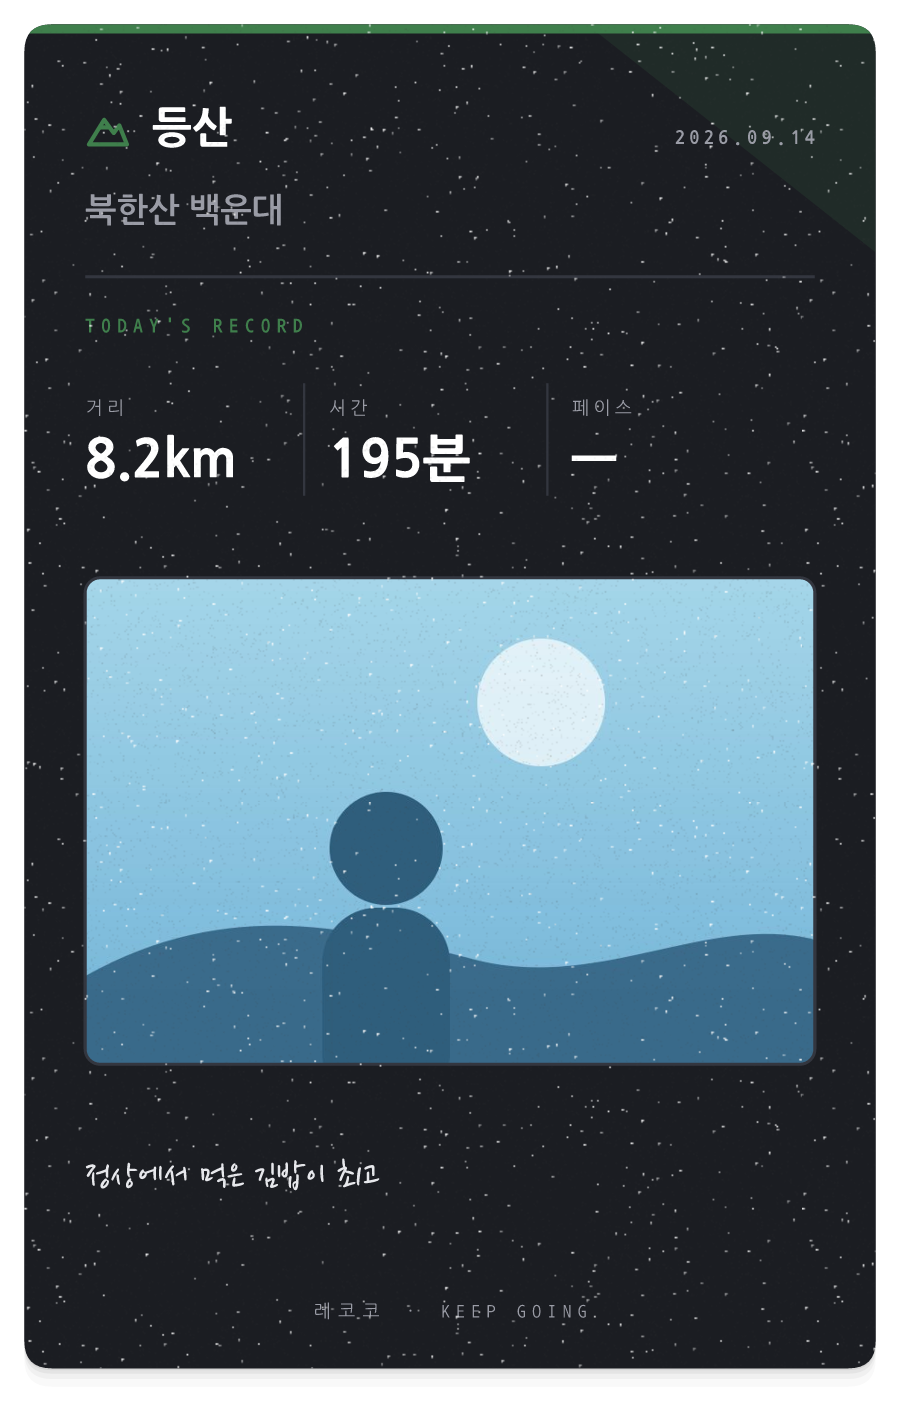
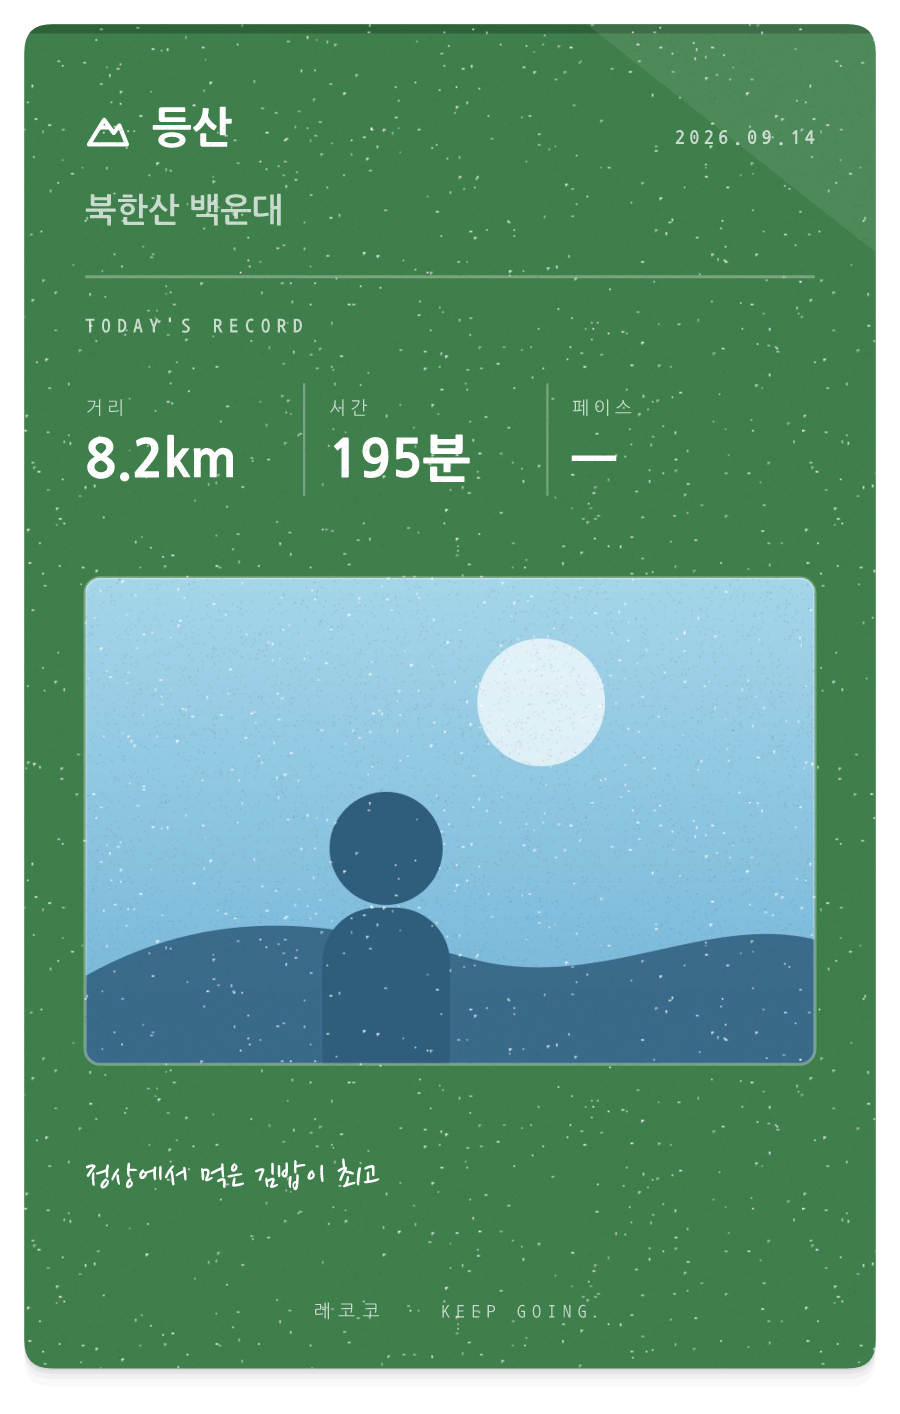
운동 기록 카드를 종류 색 카드로 · 운동 아이콘을 아령으로
- 검정 대신 종류 색(러닝 초록·헬스 주황·요가 보라·등산 진초록·수영 파랑)으로 꽉 채운 카드
- 사진과 종목이 없을 때 생기던 빈 자리 줄임
- 상점 아이콘: 운동화 → 아령, 아령·헤드폰 크기를 다른 아이콘에 맞춤

diff --git a/app/src/templates/ExerciseCard.tsx b/app/src/templates/ExerciseCard.tsx
@@ -1,4 +1,4 @@
-// 운동 (기록 카드): 진한 색 카드에 큰 숫자를 박은 스포츠 기록 카드
+// 운동 (기록 카드): 종류 색으로 꽉 채운 카드에 큰 숫자를 박은 스포츠 기록 카드
 import type { ComponentProps } from 'react';
 import Svg, { ClipPath, Defs, G, Image, Line, Path, Rect, Text } from 'react-native-svg';
 
@@ -12,9 +12,8 @@ import { PaperOverlay, PaperShadow, TemplateLayout } from './shared';
 const PW = 560;
 const PAD = 16;
 const M = 40;
-const DARK = '#1b1d22';
-const DIM = '#9a9ca6';
-const LINE = '#33363f';
+const PALE = 'rgba(255,255,255,0.72)'; // 카드 위 옅은 글씨
+const FAINT = 'rgba(255,255,255,0.3)'; // 칸 나누는 선
 
 const STAT = 96; // 큰 숫자 칸 높이
 const MOVE_ROW = 46;
@@ -34,7 +33,7 @@ function computeLayout(r: ExerciseRecord) {
   const statTop = 238;
   const photoTop = statTop + STAT + 30;
   const moves = r.type === 'gym' ? r.moves.filter((m) => m.name.trim()).slice(0, 8) : [];
-  const movesTop = photoTop + (photoH ? photoH + 30 : 0);
+  const movesTop = photoH ? photoTop + photoH + 30 : statTop + STAT + 26;
   const movesBot = movesTop + (moves.length ? moves.length * MOVE_ROW + 16 : 0);
   const memo = r.memo.trim() ? fitLines(r.memo.trim(), PW - M * 2, 26, 20, 3, 'hand') : null;
   const memoTop = movesBot + 34;
@@ -68,19 +67,19 @@ export function ExerciseCard({ record: r, width, connected = false }: { record: 
             <Rect x={M} y={photoTop} width={PW - M * 2} height={photoH} rx={10} />
           </ClipPath>
         </Defs>
-        <Path d={shape} fill={DARK} />
+        <Path d={shape} fill={t.card} />
 
         {/* 위쪽 색 띠 + 종류 */}
         <G clipPath={`url(#${id}-card)`}>
-          <Rect x={0} y={0} width={PW} height={6} fill={t.accent} />
-          <Path d={`M${PW - 190},0 L${PW},0 L${PW},150 Z`} fill={t.accent} opacity={0.14} />
+          <Rect x={0} y={0} width={PW} height={6} fill={t.deep} />
+          <Path d={`M${PW - 190},0 L${PW},0 L${PW},150 Z`} fill="#fff" opacity={0.08} />
         </G>
-        <ExerciseIcon type={r.type} x={M} y={54} size={30} color={t.accent} />
+        <ExerciseIcon type={r.type} x={M} y={54} size={30} color="#fff" />
         <T f="sansHeavy" x={M + 44} y={78} fontSize={28} children={t.label} />
-        <T f="monoBold" x={PW - M} y={78} fontSize={13} letterSpacing={3} fill={DIM} textAnchor="end" children={dotDateWithDay(r.date).replace(/\(.\)/, '')} />
-        <T f="sansBold" x={M} y={130} fontSize={place.size} fill={DIM} children={place.text} />
-        <Line x1={M} y1={166} x2={PW - M} y2={166} stroke={LINE} strokeWidth={2} />
-        <T f="monoBold" x={M} y={202} fontSize={13} letterSpacing={4} fill={t.accent} children="TODAY'S RECORD" />
+        <T f="monoBold" x={PW - M} y={78} fontSize={13} letterSpacing={3} fill={PALE} textAnchor="end" children={dotDateWithDay(r.date).replace(/\(.\)/, '')} />
+        <T f="sansBold" x={M} y={130} fontSize={place.size} fill={PALE} children={place.text} />
+        <Line x1={M} y1={166} x2={PW - M} y2={166} stroke={FAINT} strokeWidth={2} />
+        <T f="monoBold" x={M} y={202} fontSize={13} letterSpacing={4} fill={PALE} children="TODAY'S RECORD" />
 
         {/* 큰 숫자 세 칸 */}
         {stats.map(([k, v], i) => {
@@ -88,9 +87,9 @@ export function ExerciseCard({ record: r, width, connected = false }: { record: 
           const value = fitLine(v, (PW - M * 2) / 3 - 14, 34, 18, 'sansHeavy');
           return (
             <G key={k}>
-              <T f="mono" x={x} y={statTop + 18} fontSize={12} letterSpacing={2} fill={DIM} children={k} />
+              <T f="mono" x={x} y={statTop + 18} fontSize={12} letterSpacing={2} fill={PALE} children={k} />
               <T f="sansHeavy" x={x} y={statTop + 60} fontSize={value.size} children={value.text} />
-              {i > 0 && <Line x1={x - 16} y1={statTop - 2} x2={x - 16} y2={statTop + 72} stroke={LINE} strokeWidth={1.5} />}
+              {i > 0 && <Line x1={x - 16} y1={statTop - 2} x2={x - 16} y2={statTop + 72} stroke={FAINT} strokeWidth={1.5} />}
             </G>
           );
         })}
@@ -99,7 +98,7 @@ export function ExerciseCard({ record: r, width, connected = false }: { record: 
         {!!photoH && (
           <G>
             <Image href={{ uri: r.photo!.uri }} x={M} y={photoTop} width={PW - M * 2} height={photoH} preserveAspectRatio="xMidYMid slice" clipPath={`url(#${id}-photo)`} />
-            <Rect x={M} y={photoTop} width={PW - M * 2} height={photoH} rx={10} fill="none" stroke={LINE} strokeWidth={2} />
+            <Rect x={M} y={photoTop} width={PW - M * 2} height={photoH} rx={10} fill="none" stroke={FAINT} strokeWidth={2} />
           </G>
         )}
 
@@ -110,19 +109,19 @@ export function ExerciseCard({ record: r, width, connected = false }: { record: 
           const detail = [m.weight > 0 && `${m.weight}kg`, m.reps > 0 && `${m.reps}회`, m.sets > 0 && `${m.sets}세트`].filter(Boolean).join(' · ');
           return (
             <G key={i}>
-              <Rect x={M} y={y + 14} width={6} height={6} rx={3} fill={t.accent} />
+              <Rect x={M} y={y + 14} width={6} height={6} rx={3} fill="#fff" />
               <T f="sansBold" x={M + 20} y={y + 24} fontSize={name.size} children={name.text} />
-              <T f="mono" x={PW - M} y={y + 24} fontSize={15} fill={DIM} textAnchor="end" children={detail} />
+              <T f="mono" x={PW - M} y={y + 24} fontSize={15} fill={PALE} textAnchor="end" children={detail} />
             </G>
           );
         })}
-        {!!moves.length && <Line x1={M} y1={movesBot} x2={PW - M} y2={movesBot} stroke={LINE} strokeWidth={1.5} />}
+        {!!moves.length && <Line x1={M} y1={movesBot} x2={PW - M} y2={movesBot} stroke={FAINT} strokeWidth={1.5} />}
 
         {/* 한 줄 */}
         {memo?.lines.map((line, i) => (
-          <T key={i} f="hand" x={M} y={memoTop + 18 + i * 36} fontSize={memo.size} fill="#e7e8ec" children={line} />
+          <T key={i} f="hand" x={M} y={memoTop + 18 + i * 36} fontSize={memo.size} fill="#fff" children={line} />
         ))}
-        <T f="mono" x={PW / 2} y={height - 34} fontSize={12} letterSpacing={4} fill={DIM} textAnchor="middle" children={`${BRAND.ko} · KEEP GOING`} />
+        <T f="mono" x={PW / 2} y={height - 34} fontSize={12} letterSpacing={4} fill={PALE} textAnchor="middle" children={`${BRAND.ko} · KEEP GOING`} />
 
         <PaperOverlay id={id} d={shape} width={PW} height={height} wrinkle="none" surface="grain" />
       </G>

diff --git a/app/src/components/Stickers.tsx b/app/src/components/Stickers.tsx
@@ -138,23 +138,24 @@ function Shape({ emoji }: { emoji: string }) {
           <Path d="M17,41 H31" {...s} />
         </G>
       );
-    case '🏃':
-      // 운동화 (옆모습)
+    case '🏋':
+      // 아령
       return (
         <G>
-          <Path d="M7,33 V24 Q7,22 9,22 H16 L22,26 L33,28 Q40,29 41,33 V35 Q41,37 39,37 H9 Q7,37 7,35 Z" fill="#8fd6a8" {...s} />
-          <Path d="M7,33 H41" {...s} fill="none" />
-          <Path d="M16,22 L19,26 M21,23 L24,27 M26,25 L28,28" stroke={LINE} strokeWidth={1.6} strokeLinecap="round" />
-          <Path d="M12,17 L16,22 M17,15 L20,20" stroke="#5aa87a" strokeWidth={2.4} strokeLinecap="round" />
+          <Path d="M17,24 H31" stroke={LINE} strokeWidth={5.5} strokeLinecap="round" />
+          <Path d="M13,12 H17 Q20,12 20,15 V33 Q20,36 17,36 H13 Q10,36 10,33 V15 Q10,12 13,12 Z" fill="#8fd6a8" {...s} />
+          <Path d="M31,12 H35 Q38,12 38,15 V33 Q38,36 35,36 H31 Q28,36 28,33 V15 Q28,12 31,12 Z" fill="#8fd6a8" {...s} />
+          <Path d="M6,17 H7 Q10,17 10,20 V28 Q10,31 7,31 H6 Q3,31 3,28 V20 Q3,17 6,17 Z" fill="#5aa87a" {...s} />
+          <Path d="M41,17 H42 Q45,17 45,20 V28 Q45,31 42,31 H41 Q38,31 38,28 V20 Q38,17 41,17 Z" fill="#5aa87a" {...s} />
         </G>
       );
     case '🎧':
       // 헤드폰
       return (
         <G>
-          <Path d="M11,29 V23 A13,13 0 0 1 37,23 V29" {...s} fill="none" />
-          <Path d="M8,29 H15 V40 H8 Q6,40 6,38 V31 Q6,29 8,29 Z" fill="#b9c8ff" {...s} />
-          <Path d="M40,29 H33 V40 H40 Q42,40 42,38 V31 Q42,29 40,29 Z" fill="#b9c8ff" {...s} />
+          <Path d="M9,31 V23 A15,15 0 0 1 39,23 V31" {...s} fill="none" />
+          <Path d="M6,29 H15 V42 H6 Q3,42 3,39 V32 Q3,29 6,29 Z" fill="#b9c8ff" {...s} />
+          <Path d="M42,29 H33 V42 H42 Q45,42 45,39 V32 Q45,29 42,29 Z" fill="#b9c8ff" {...s} />
         </G>
       );
     default:

diff --git a/app/src/templates/ExerciseSlip.tsx b/app/src/templates/ExerciseSlip.tsx
@@ -17,12 +17,12 @@ const SUB = '#8d8f98';
 const LINE = '#e5e5e6';
 
 /** 종류마다 이름·포인트 색·큰 숫자로 뭘 보여줄지 */
-export const EXERCISE_TYPES: Record<ExerciseType, { label: string; accent: string; icon: string }> = {
-  run: { label: '러닝', accent: '#2f9e6a', icon: 'run' },
-  gym: { label: '헬스', accent: '#e06b3c', icon: 'gym' },
-  yoga: { label: '요가', accent: '#9b6ed6', icon: 'yoga' },
-  hike: { label: '등산', accent: '#3f7f4c', icon: 'hike' },
-  swim: { label: '수영', accent: '#2f7fc4', icon: 'swim' },
+export const EXERCISE_TYPES: Record<ExerciseType, { label: string; accent: string; card: string; deep: string }> = {
+  run: { label: '러닝', accent: '#2f9e6a', card: '#2f9e6a', deep: '#22794f' },
+  gym: { label: '헬스', accent: '#e06b3c', card: '#e06b3c', deep: '#b7502a' },
+  yoga: { label: '요가', accent: '#9b6ed6', card: '#9b6ed6', deep: '#7a51b0' },
+  hike: { label: '등산', accent: '#3f7f4c', card: '#3f7f4c', deep: '#2e6239' },
+  swim: { label: '수영', accent: '#2f7fc4', card: '#2f7fc4', deep: '#23639b' },
 };
 
 /** 거리를 쓰는 종류 (헬스·요가는 종목·시간만) */

diff --git a/app/src/components/ThemePicker.tsx b/app/src/components/ThemePicker.tsx
@@ -537,14 +537,13 @@ export function ExerciseDesignSwatch({ design, type = 'run', size = 44 }: { desi
   if (design === 'card')
     return (
       <Svg width={size} height={size * 1.3} viewBox="0 0 40 52">
-        <Rect x={2} y={2} width={36} height={48} rx={5} fill="#1b1d22" />
-        <Rect x={2} y={2} width={36} height={3} rx={1.5} fill={accent} />
+        <Rect x={2} y={2} width={36} height={48} rx={5} fill={accent} />
         <Rect x={7} y={10} width={14} height={4} rx={2} fill="#fff" />
-        <Line x1={7} y1={19} x2={33} y2={19} stroke="#33363f" strokeWidth={1.2} />
+        <Line x1={7} y1={19} x2={33} y2={19} stroke="#fff" strokeWidth={1.2} opacity={0.4} />
         {[8, 18, 28].map((x) => (
-          <Rect key={x} x={x} y={25} width={6} height={7} rx={1} fill="#fff" opacity={0.85} />
+          <Rect key={x} x={x} y={25} width={6} height={7} rx={1} fill="#fff" opacity={0.9} />
         ))}
-        <Rect x={7} y={40} width={18} height={3} rx={1.5} fill={accent} opacity={0.8} />
+        <Rect x={7} y={40} width={18} height={3} rx={1.5} fill="#fff" opacity={0.7} />
       </Svg>
     );
   return (

diff --git a/app/src/lib/shop.ts b/app/src/lib/shop.ts
@@ -152,7 +152,7 @@ export const PAID_CATEGORIES: Partial<Record<RecordKind, { name: string; desc: s
   food: { name: '카페·맛집', desc: '메뉴마다 별점을 매기는 주문서 · 인쇄 색 4가지', icon: '☕', productId: 'recoco.category.food', price: 1500 },
   show: { name: '공연·전시', desc: '뮤지컬·연극·전시 · 흰 무지 티켓 · 포스터 입장권', icon: '🎫', productId: 'recoco.category.show', price: 1500 },
   concert: { name: '콘서트', desc: '밤하늘 티켓 · 흰 무지 티켓', icon: '🎤', productId: 'recoco.category.concert', price: 1500 },
-  exercise: { name: '운동', desc: '러닝·헬스·요가·등산·수영 · 기록표와 기록 카드', icon: '🏃', productId: 'recoco.category.exercise', price: 1500 },
+  exercise: { name: '운동', desc: '러닝·헬스·요가·등산·수영 · 기록표와 기록 카드', icon: '🏋', productId: 'recoco.category.exercise', price: 1500 },
   music: { name: '음악', desc: '앨범 감상과 플레이리스트 · 앨범 카드와 영수증', icon: '🎧', productId: 'recoco.category.music', price: 1500 },
 };
 
